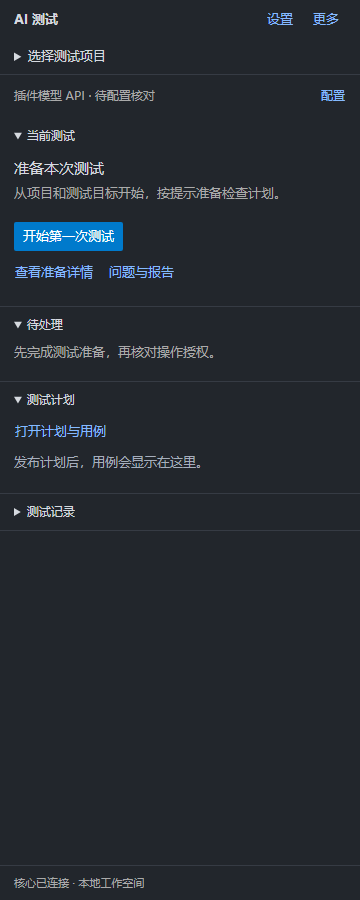
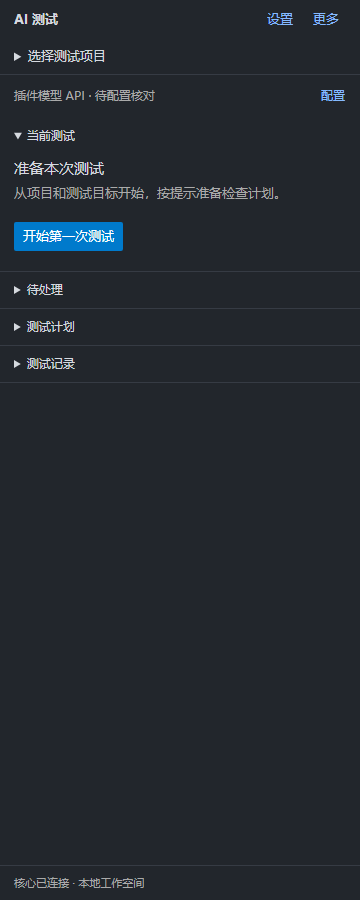
fix(panel): simplify empty state and preserve model configuration drafts

diff --git a/src/aitest/resources/panel/src/model-settings.ts b/src/aitest/resources/panel/src/model-settings.ts
@@ -9,6 +9,9 @@ export class ModelSettings {
   private timeout="60";
   private reference="";
   private note="";
+  private provider="deepseek";
+  private customEndpoint="";
+  private errors:Record<string,string>={};
   constructor(private send:(message:unknown)=>void,private render:()=>void){}
   private dispatch(kind:string,extra:Record<string,unknown>={}):void {
     this.request="model-settings-"+newIntent();this.send({kind,clientRequestId:this.request,...extra});
@@ -21,7 +24,7 @@ export class ModelSettings {
     else if(data.cancelled)this.note="已取消，配置未改变。";
     else {
       const settings=object(data.modelSettings);
-      if(settings){this.loaded=true;this.endpoint=String(settings.endpoint??"");this.model=String(settings.model??"");this.timeout=String(settings.timeout??60);this.reference=String(settings.reference??"");}
+      if(settings){this.loaded=true;this.endpoint=String(settings.endpoint??"");this.model=String(settings.model??"");this.timeout=String(settings.timeout??60);this.reference=String(settings.reference??"");this.provider=this.endpoint==="https://api.deepseek.com"?"deepseek":"compatible";if(this.provider==="compatible")this.customEndpoint=this.endpoint;}
       if(typeof data.modelCredential==="string"){this.reference=data.modelCredential;this.note="密钥已保存在系统安全存储，请保存配置。";}
       if(data.modelSaved)this.note="默认配置已保存，将用于新建测试。已有运行仍使用原配置；尚未检查模型连通性。";
     }
@@ -30,18 +33,23 @@ export class ModelSettings {
   status():string {return this.loaded ? this.reference?"已选择安全凭据":"尚未配置凭据":"待配置核对";}
   view(enabled:boolean):HTMLElement {
     const section=document.createElement("section");section.className="form-part";
-    section.append(text("h2","模型 API 设置"),text("p","插件直接调用模型，帮助准备测试与分析证据。"));
+    section.append(text("p","用于准备测试与分析证据。保存为新建测试的默认配置。"));
     const disabled=!enabled||!!this.request;
-    const field=(label:string,value:string,set:(value:string)=>void)=>{const row=document.createElement("label");row.append(text("span",label));const input=document.createElement("input");input.value=value;input.disabled=disabled;input.oninput=()=>set(input.value);row.append(input);return row;};
+    const field=(label:string,key:string,value:string,set:(value:string)=>void)=>{const row=document.createElement("label");row.append(text("span",label));const input=document.createElement("input");input.value=value;input.disabled=disabled;input.dataset.field=key;input.setAttribute("aria-label",label);input.oninput=()=>{set(input.value);delete this.errors[key];input.removeAttribute("aria-invalid");row.querySelector(".field-error")?.remove();};row.append(input);if(this.errors[key]){input.setAttribute("aria-invalid","true");input.setAttribute("aria-describedby",`model-error-${key}`);const error=text("span",this.errors[key]!,"field-error");error.id=`model-error-${key}`;row.append(error);}return row;};
     const provider=document.createElement("label");provider.append(text("span","供应方"));const choice=document.createElement("select");choice.disabled=disabled;
     for(const [value,label] of [["deepseek","DeepSeek"],["compatible","OpenAI 兼容接口"]]){const option=document.createElement("option");option.value=value!;option.textContent=label!;choice.append(option);}
-    choice.value=this.endpoint==="https://api.deepseek.com"?"deepseek":"compatible";
-    choice.onchange=()=>{if(choice.value==="deepseek")this.endpoint="https://api.deepseek.com";else this.endpoint="";this.render();};provider.append(choice);
-    section.append(provider,field("API 地址",this.endpoint,value=>this.endpoint=value),field("模型",this.model,value=>this.model=value));
+    choice.value=this.provider;
+    choice.onchange=()=>{if(this.provider==="compatible")this.customEndpoint=this.endpoint;this.provider=choice.value;this.endpoint=this.provider==="deepseek"?"https://api.deepseek.com":this.customEndpoint;delete this.errors.endpoint;this.render();};provider.append(choice);
+    section.append(provider,field("API 地址","endpoint",this.endpoint,value=>this.endpoint=value),field("模型","model",this.model,value=>this.model=value));
     const credential=text("p",this.reference?"API 密钥引用：已配置，正文不会显示在面板中。":"API 密钥引用：尚未配置。");
     const manage=action("管理安全凭据",()=>{this.dispatch("wizardModelCredential");this.render();},disabled);manage.className="link-button";
-    section.append(credential,manage,field("请求超时（秒）",this.timeout,value=>this.timeout=value));
+    section.append(credential,manage,field("请求超时（秒）","timeout",this.timeout,value=>this.timeout=value));
     const save=action("保存默认配置",()=>{
+      this.errors={};
+      try{const url=new URL(this.endpoint);if(url.protocol!=="https:"||url.username||url.password||url.search||url.hash)throw new Error();}catch{this.errors.endpoint="填写完整的 HTTPS 地址，不要附带账号、密码或查询参数。";}
+      if(!this.model.trim()||this.model.length>128||/[\u0000-\u001f]/.test(this.model))this.errors.model="填写供应方提供的模型名称。";
+      if(!Number.isInteger(Number(this.timeout))||Number(this.timeout)<10||Number(this.timeout)>120)this.errors.timeout="填写 10–120 之间的整数秒。";
+      if(Object.keys(this.errors).length){this.note="请修正标出的配置项，已填写内容会保留。";this.render();return;}
       if(!this.reference){this.note="请先配置安全凭据。";this.render();return;}
       this.dispatch("wizardModelSave",{endpoint:this.endpoint,model:this.model,reference:this.reference,timeout:Number(this.timeout)});this.render();
     },disabled);save.className="primary";section.append(save);

diff --git a/src/aitest/resources/panel/src/index.ts b/src/aitest/resources/panel/src/index.ts
@@ -128,7 +128,7 @@ class AITestPanel extends HTMLElement {
   private selectedRecord:Row|null=null;
   private recordOutcome:Outcome|null=null;
   private planOutcome:Outcome|null=null;
-  private expanded:Record<string,boolean>={current:true,pending:true,plan:true,records:false};
+  private expanded:Record<string,boolean>={current:true,records:false};
   private homeScroll=0;
   private selectedStep:string|null=null;
   private intents=new Map<string,string>();
@@ -422,9 +422,9 @@ class AITestPanel extends HTMLElement {
 
   private currentView(): HTMLElement {
     const fragment=document.createElement("div");fragment.className="dashboard";
-    const fold=(label:string,key:string,...children:HTMLElement[])=>group(label,key,this.expanded[key]??false,open=>{this.expanded[key]=open;},...children);
+    const fold=(label:string,key:string,...children:HTMLElement[])=>group(label,key,this.expanded[key]??(key==="pending"?!!this.project?.run_id:key==="plan"?!!this.project:false),open=>{this.expanded[key]=open;},...children);
     const links=document.createElement("div");links.className="link-row";
-    links.append(action("查看准备详情",()=>this.navigate("plan")),action("问题与报告",()=>this.navigate("review")));
+    if(this.project)links.append(action("查看准备详情",()=>this.navigate("plan")),action("问题与报告",()=>this.navigate("review")));
     const plan=document.createElement("div");
     const openPlan=action("打开计划与用例",()=>this.navigate("plan"));openPlan.className="link-button";
     plan.append(openPlan,this.caseTree());
@@ -835,7 +835,7 @@ class AITestPanel extends HTMLElement {
     const section=document.createElement("section");section.dataset.testid="detail-view";
     const back=action("返回本次测试",()=>this.navigate("current"));back.dataset.action="back";
     const heading=document.createElement("div");heading.className="detail-heading";
-    heading.append(back,text("h1",selected[1]));section.append(heading);
+    heading.append(back,text("h1",this.detail==="settings"?"模型 API 设置":this.detail==="setup"?"准备本次测试":selected[1]));section.append(heading);
     if(this.detail==="diagnostics")section.append(this.detailSection());
     if(this.detail==="setup")section.append(this.onboarding.view(String(this.doctorOutcome?.response?.["workspace_id"]??""),this.pending));
     else if(this.detail==="review")section.append(this.reportActions(),...this.reviewDetail());

diff --git a/src/aitest/resources/panel/tests/model-settings.spec.ts b/src/aitest/resources/panel/tests/model-settings.spec.ts
@@ -16,6 +16,20 @@ test("model defaults use correlated host replies and never put a secret field in
   await postHostMessage(page,{kind:"wizardResult",clientRequestId:loading.clientRequestId,modelSettings:{endpoint:"https://api.deepseek.com",model:"sample-model",timeout:60,reference:"safe-ref"}});
   await expect(page.getByRole("textbox",{name:"模型",exact:true})).toHaveValue("sample-model");
   await expect(page.locator('input[type="password"]')).toHaveCount(0);
+  const provider=page.getByRole("combobox",{name:"供应方",exact:true});
+  await provider.selectOption("compatible");
+  await page.getByRole("textbox",{name:"API 地址",exact:true}).fill("https://custom.example/v1");
+  await provider.selectOption("deepseek");
+  await provider.selectOption("compatible");
+  await expect(page.getByRole("textbox",{name:"API 地址",exact:true})).toHaveValue("https://custom.example/v1");
+  await page.getByRole("textbox",{name:"API 地址",exact:true}).fill("http://invalid.example");
+  await page.getByRole("textbox",{name:"请求超时（秒）",exact:true}).fill("0");
+  await page.getByRole("button",{name:"保存默认配置",exact:true}).click();
+  expect((await sent()).kind).toBe("wizardModelLoad");
+  await expect(page.getByRole("textbox",{name:"API 地址",exact:true})).toHaveAttribute("aria-invalid","true");
+  await expect(page.getByText("填写 10–120 之间的整数秒。",{exact:true})).toBeVisible();
+  await page.getByRole("textbox",{name:"API 地址",exact:true}).fill("https://api.deepseek.com");
+  await page.getByRole("textbox",{name:"请求超时（秒）",exact:true}).fill("60");
   await page.getByRole("textbox",{name:"模型",exact:true}).fill("new-model");
   await page.getByRole("button",{name:"保存默认配置",exact:true}).click();
   const save=await sent();expect(save).toMatchObject({kind:"wizardModelSave",reference:"safe-ref",model:"new-model",timeout:60});

diff --git a/src/aitest/resources/panel/src/shell.ts b/src/aitest/resources/panel/src/shell.ts
@@ -15,6 +15,7 @@ ul{list-style:none;padding:0;margin:0}li{padding:4px 0}pre{white-space:pre-wrap;
 .phase{padding:4px 0}.next{padding:6px 0}.actions{margin:8px 0}.record-id{overflow-wrap:anywhere}footer{padding-top:10px;font-size:12px}.diagnostics{margin-top:12px}
 .workbench-part,.check-form{border-top:1px solid var(--vscode-panel-border,#363b44);padding:12px 0}.workbench-part h3{margin-bottom:6px;font-weight:500}.workbench-part p{font-size:12px}.check-form{padding:0}.check-form>summary{font-weight:500}.check-form .form-part{padding:0 4px 12px}
 main{min-height:100vh;display:flex;flex-direction:column}.dashboard{display:flex;flex-direction:column;flex:1}.dashboard>footer,main>footer{margin-top:auto}section[data-testid=detail-view]{flex:1}
+.field-error{display:block;margin-top:5px;color:var(--vscode-errorForeground,#f48771);font-size:12px}input[aria-invalid=true]{border-color:var(--vscode-inputValidation-errorBorder,#be5555)}.link-row:empty{display:none}
 @media(prefers-reduced-motion:reduce){*{scroll-behavior:auto}}
 main{padding:0 14px 16px;max-width:820px;margin:0 auto}header{padding:0;border:0}.toolbar{min-height:40px}.toolbar button,.link-button{background:transparent;color:var(--vscode-textLink-foreground,#85baff);padding:3px 0}.toolbar button{padding:4px 6px}.toolbar h1{font-size:13px;font-weight:600}
 .project-picker{margin:0 -14px;border-bottom:1px solid var(--vscode-panel-border,#363b44);padding:7px 14px}.project-picker>summary{padding:0;font-weight:400;overflow-wrap:anywhere}.project-picker .actions{margin-bottom:0}.model-line{display:flex;align-items:center;justify-content:space-between;gap:8px;padding:8px 0;margin:0;font-size:12px}.model-line button{background:transparent;color:var(--vscode-textLink-foreground,#85baff);padding:0}.model-line span{overflow-wrap:anywhere}

diff --git a/src/aitest/resources/panel/tests/panel.spec.ts b/src/aitest/resources/panel/tests/panel.spec.ts
@@ -51,7 +51,8 @@ test("prototype follows current-test panel and same-panel detail flow", async ({
   await expect(page.getByTestId("primary-actions").getByRole("button")).toHaveCount(1);
 
   // 「计划」必须精确匹配：否则会同时命中 AI 区的「生成计划草稿」（strict mode 冲突）。
-  await page.getByRole("button", { name: "查看准备详情", exact: true }).click();
+  await page.getByText("测试计划",{exact:true}).click();
+  await page.getByRole("button", { name: "打开计划与用例", exact: true }).click();
   await expect(page.getByTestId("detail-view").getByRole("heading", { name: "计划", exact:true })).toBeVisible();
   await page.getByRole("button", { name: "返回本次测试" }).click();
   await expect(page.getByText("当前测试", { exact: true })).toBeVisible();

diff --git a/src/aitest/resources/panel/src/onboarding.ts b/src/aitest/resources/panel/src/onboarding.ts
@@ -92,7 +92,6 @@ export class Onboarding {
   view(workspace:string,busy:boolean):HTMLElement {
     this.workspace=workspace;
     const section=document.createElement("section");section.dataset.testid="onboarding";
-    section.append(text("h2","开始第一次测试"));
     const steps=document.createElement("ol");steps.className="wizard-steps";steps.setAttribute("aria-label","测试准备进度");
     const active=this.stage==="choose"?0:this.stage==="configure"?this.configurationPage:this.stage==="project"?2:3;
     ["选择项目","模型 API","测试环境","核对计划"].forEach((label,index)=>{const item=text("li",`${index+1} ${label}`);if(active===index)item.setAttribute("aria-current","step");steps.append(item);});

diff --git a/docs/validation/p1-onboarding-live-20261016/面板设计对照.md b/docs/validation/p1-onboarding-live-20261016/面板设计对照.md
@@ -46,6 +46,12 @@ AI 测试                      设置 更多
 
 ## 尚未达到文档完整实现的部分
 
+### 同日可用性复查
+
+再次对照截图后，空项目首页收起待处理/计划/记录的空内容，并移除无项目时重复的详情入口；仍保留四组结构且可主动展开。设置和向导使用单一详情标题。模型设置新增地址、模型名称及超时的字段旁错误提示；错误输入不提交宿主，原输入保留；在兼容供应方与 DeepSeek 间切换会恢复已填的自定义地址。宿主安全校验仍保留。更新后的浏览器 24 项回归通过，截图为本次重生成结果。
+
+### 继续实施范围
+
 本轮没有把界面整理写成产品全部完成：项目入口仍需补齐已保存项目列表与隐藏/恢复；模型连接检查尚无默认可用核心处理器；计划树仍缺业务目标名称及 L1/L2/L3 完整摘要；工作台还需完整证据正文阅读；自动生成可执行测试入口、任意业务环境准备、完整报告查询筛选与 AI 来源记录页仍需继续实施。当前向导只支持已准备的标准库 Python JSON 测试入口。
 
 用户要求的质量基线仍是原设计，以上缺口不得通过删减设计要求或把按钮存在写成验收完成来消除。Trae 执行测试按本轮要求暂停，尚未重新安装此轮面板布局。

diff --git a/docs/修改日志/2026-10-16-面板布局与新手向导续改.md b/docs/修改日志/2026-10-16-面板布局与新手向导续改.md
@@ -9,3 +9,5 @@
 浏览器 24 项与宿主 31 项通过；Python 向导等组件 65 项通过；Ruff 与 strict mypy 通过。窄屏设置页首次回归发现横向溢出，修复后重跑通过。各批范围独立，不能累计为全量。新增宿主模型默认配置的真实凭据保存与新版 Trae 全流程仍待实测。
 
 设计对照、浏览器截图与尚未实施的完整设计条目见[本批面板记录](../validation/p1-onboarding-live-20261016/面板设计对照.md)。真实 Trae 测试已按要求暂停，本批不改变各期验收登记，不宣称一期全部完成。
+
+同日可用性复查：收拢无项目空态，移除重复详情标题；模型表单增加就地错误提示，切换供应方保留自定义地址。浏览器 24 项再次通过。上述为界面优化，不解除项目切换、计划名称与证据阅读等实施缺口。
